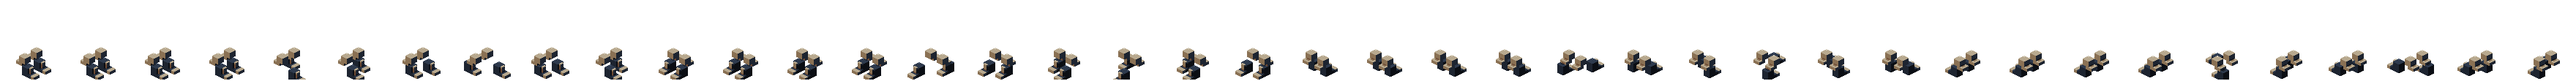
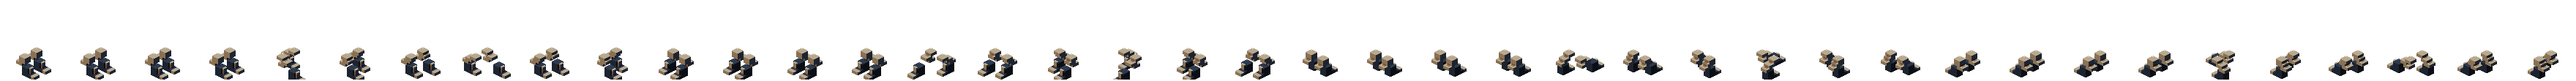
Prospector para de patinar, esquiva ganha foguetes e o cuspe vira gosma
TRES defeitos de leitura apontados em jogo:

1. A perna do Prospector so transladava canela e pe — coxa e jarrete
   ficavam cravados no quadril e a perna DESLIZAVA por baixo do corpo em
   vez de girar: leitura de patinacao. Uma caixa nao cisalha, entao a
   rotacao e aproximada em degraus: quadril fixo, metade de cima da coxa
   parada, metade de baixo e jarrete a meio caminho (s*0.5) do pe. A
   corrente pe -> canela -> jarrete -> coxa agora desenha a diagonal da
   passada inteira. Atlas do sheet e das camadas regenerados (v5/v7).

2. A esquiva nao tinha corpo: o bot deslizava ereto. Agora ele se
   PROSTRA no rumo do deslocamento — rotacao em torno dos pes na direcao
   de tela da esquiva, leve agachada e avanco de 2px — enquanto os dois
   bocais do hardpoint traseiro cospem brasas (emitDashJets: particulas
   ember em fluxo continuo, bucket de 45ms, jorrando contra o rumo). A
   sombra fica fora da inclinacao: pertence ao chao. Vale para o
   parceiro em co-op tambem.

3. O cuspe do Spitter usava o corpo facetado do estilhaco do jogador —
   leitura de municao. Secrecao nao tem faceta: agora e uma GOTA que
   balanca em voo (fase pela distancia percorrida, nao pelo relogio),
   com globulos grudados girando em volta, pingo desgarrado caindo rumo
   a sombra e rastro de respingos redondos. Curva = fluido, a mesma
   regra do disco e da bola de ricochete.

Validador e suites verdes (131 conteudo, 480 cliente), tsc limpo.
[…]

diff --git a/packages/voxelyn-survival/src/client/projectiles.ts b/packages/voxelyn-survival/src/client/projectiles.ts
@@ -260,6 +260,70 @@ const drawPiercingDart = (
   ctx.fill();
 };
 
+/**
+ * CUSPE: uma gota de gosma, nao um projetil de bala.
+ *
+ * O cuspe compartilhava o corpo facetado do estilhaco do jogador — dois voxels
+ * apontados, leitura de municao. Secrecao nao tem faceta: e uma GOTA que
+ * balanca em voo, com globulos grudados girando em volta e pingos se
+ * desgarrando por baixo. Tudo redondo de proposito: no mundo facetado, a curva
+ * e o que separa fluido de materia — a mesma regra do disco e da bola de
+ * ricochete.
+ *
+ * A fase vem da DISTANCIA percorrida, nao do relogio: a gota balanca porque
+ * voa, e para de balancar quando o mundo pausa.
+ */
+const drawSpitGlob = (
+  ctx: CanvasRenderingContext2D,
+  sx: number,
+  sy: number,
+  size: number,
+  phase: number,
+  ramp: FaceRamp
+): void => {
+  const wob = Math.sin(phase * 9);
+  const rx = size * (0.95 + 0.14 * wob);
+  const ry = size * (0.78 - 0.1 * wob);
+
+  // Globulos grudados, girando devagar com o voo — a gosma nao e uma esfera
+  // limpa, e uma massa que se reorganiza no ar.
+  ctx.fillStyle = ramp[1];
+  for (const offset of [0, Math.PI * 0.9]) {
+    const angle = phase * 5 + offset;
+    const gx = sx + Math.cos(angle) * rx * 0.75;
+    const gy = sy + Math.sin(angle) * ry * 0.8;
+    const gr = size * (0.28 + 0.08 * Math.sin(phase * 7 + offset));
+    ctx.beginPath();
+    ctx.ellipse(gx, gy, gr, gr * 0.8, 0, 0, Math.PI * 2);
+    ctx.fill();
+  }
+
+  // Corpo principal: gota achatada com a MESMA key light das faces voxel —
+  // sombra embaixo, meio-tom, brilho no alto-esquerda.
+  ctx.fillStyle = ramp[2];
+  ctx.beginPath();
+  ctx.ellipse(sx, sy, rx, ry, 0, 0, Math.PI * 2);
+  ctx.fill();
+  ctx.fillStyle = ramp[1];
+  ctx.beginPath();
+  ctx.ellipse(sx - rx * 0.12, sy - ry * 0.16, rx * 0.78, ry * 0.74, 0, 0, Math.PI * 2);
+  ctx.fill();
+  ctx.fillStyle = ramp[0];
+  ctx.beginPath();
+  ctx.ellipse(sx - rx * 0.28, sy - ry * 0.3, rx * 0.38, ry * 0.34, 0, 0, Math.PI * 2);
+  ctx.fill();
+
+  // Pingo desgarrado caindo rumo a sombra: nasce sob a gota, desce e recomeca.
+  // E ele que diz "isto escorre" — e escorrer e o que a poca no impacto promete.
+  const drop = (phase * 1.6) % 1;
+  ctx.globalAlpha = 0.85 * (1 - drop);
+  ctx.fillStyle = ramp[1];
+  ctx.beginPath();
+  ctx.ellipse(sx + rx * 0.2 * wob, sy + ry + drop * size * 1.6, size * 0.16, size * 0.22, 0, 0, Math.PI * 2);
+  ctx.fill();
+  ctx.globalAlpha = 1;
+};
+
 export class ProjectileView {
   private readonly tracks = new Map<number, Track>();
 
@@ -381,6 +445,27 @@ export class ProjectileView {
     // formas: e ele que conta de onde o tiro veio, e no ricochete e a unica
     // coisa que ainda conta isso depois do rebote.
     const heading = track && (track.dx !== 0 || track.dy !== 0) ? track : null;
+
+    if (projectile.kind === 'spit') {
+      // Rastro de RESPINGOS redondos, nao de voxels facetados: gotinhas que a
+      // massa perdeu no caminho, encolhendo e sumindo.
+      if (heading) {
+        for (let i = 3; i >= 1; i--) {
+          const [tx, ty] = project(
+            projectile.x - heading.dx * i * 0.26,
+            projectile.y - heading.dy * i * 0.26
+          );
+          ctx.globalAlpha = 0.45 - i * 0.11;
+          ctx.fillStyle = HOSTILE_RAMP[1];
+          ctx.beginPath();
+          ctx.ellipse(tx, ty - lift, size * (0.5 - i * 0.1), size * (0.4 - i * 0.08), 0, 0, Math.PI * 2);
+          ctx.fill();
+        }
+        ctx.globalAlpha = 1;
+      }
+      drawSpitGlob(ctx, sx, sy - lift, size, track?.travelled ?? 0, ramp);
+      return;
+    }
     if (heading) {
       for (let i = TRAIL_LENGTH; i >= 1; i--) {
         const back = i * 0.3;

diff --git a/packages/voxelyn-survival/src/client/particles.ts b/packages/voxelyn-survival/src/client/particles.ts
@@ -194,6 +194,7 @@ export class VoxelParticles {
    * limita o mapa ao número de jogadores.
    */
   private readonly lastOverheatBucket = new Map<number, number>();
+  private readonly lastDashJetBucket = new Map<number, number>();
   /** Teto vindo do preset de qualidade; mobile no minimo nao aguenta o de cima. */
   budget = 240;
 
@@ -514,6 +515,50 @@ export class VoxelParticles {
         life: 620,
         maxLife: 620,
         kind: 'ash',
+      });
+    }
+  }
+
+  /**
+   * Foguetes da esquiva: brasas jorrando do hardpoint traseiro enquanto o
+   * Prospector e propulsionado.
+   *
+   * O jato nasce ATRAS do bot (oposto ao rumo da esquiva), na altura do modulo
+   * dorsal, e a velocidade das brasas continua empurrando para tras — e o
+   * rastro delas que anima os foguetes, sem nenhum sprite novo. Bucket CURTO
+   * (45ms): a esquiva dura poucos ticks e o jato tem de ler como fluxo
+   * continuo, nao como tres brasas soltas.
+   */
+  emitDashJets(
+    slot: number,
+    x: number,
+    y: number,
+    dirX: number,
+    dirY: number,
+    nowMs: number,
+    scale: number
+  ): void {
+    const bucket = (nowMs / 45) | 0;
+    if (this.lastDashJetBucket.get(slot) === bucket) return;
+    this.lastDashJetBucket.set(slot, bucket);
+
+    const rnd = seeded(eventSeed(x, y, Math.imul(bucket, 374761393) ^ (slot + 7)));
+    const count = Math.max(1, Math.round(3 * scale));
+    for (let i = 0; i < count; i++) {
+      // Dois bocais, um de cada lado do modulo: o offset perpendicular alterna.
+      const side = i % 2 === 0 ? 0.14 : -0.14;
+      const px = -dirY * side;
+      const py = dirX * side;
+      this.push({
+        x: x - dirX * 0.35 + px + (rnd() - 0.5) * 0.08,
+        y: y - dirY * 0.35 + py + (rnd() - 0.5) * 0.08,
+        z: 0.65 + rnd() * 0.15,
+        vx: -dirX * (2.2 + rnd() * 0.8),
+        vy: -dirY * (2.2 + rnd() * 0.8),
+        vz: 0.15 + rnd() * 0.25,
+        life: 240 + rnd() * 120,
+        maxLife: 360,
+        kind: 'ember',
       });
     }
   }

diff --git a/packages/voxelyn-survival/src/client/render.ts b/packages/voxelyn-survival/src/client/render.ts
@@ -1381,10 +1381,33 @@ export class SurvivalRenderer {
           const allyLight = isLocal ? 1 : brightness(pl.x, pl.y);
           const bodyAlpha = isLocal ? 1 : allyBodyAlpha(allyLight);
           const flick = isLocal && ex.iframesUntil > state.tick && state.tick % 2 === 0;
+          // ESQUIVA COM PROPULSAO: durante o dash o corpo se PROSTRA no rumo do
+          // deslocamento — inclinado e levemente agachado, como quem esta sendo
+          // empurrado pelos foguetes do hardpoint — e os bocais traseiros cospem
+          // brasas. A sombra fica fora da inclinacao: ela pertence ao chao.
+          const dashing = state.tick < ex.dodgeUntil;
+          if (dashing) {
+            this.particles.emitDashJets(
+              slot, pl.x, pl.y, ex.dodgeDir.x, ex.dodgeDir.y, nowMs,
+              this.quality.maxFx / PRESETS.high.maxFx
+            );
+          }
           if (bodyAlpha > 0) {
             ctx.save();
             ctx.globalAlpha = bodyAlpha;
             drawShadow(psx, psy, size);
+            if (dashing) {
+              // Rumo da esquiva em coordenadas de TELA (projecao 2:1),
+              // renormalizado — e ele que diz para que lado o corpo tomba.
+              const ddx = ex.dodgeDir.x - ex.dodgeDir.y;
+              const ddy = (ex.dodgeDir.x + ex.dodgeDir.y) * 0.5;
+              const dlen = Math.hypot(ddx, ddy) || 1;
+              // Gira em torno dos PES: o apoio nao sai do lugar, o tronco tomba.
+              ctx.translate(psx + (ddx / dlen) * 2 * z, psy);
+              ctx.rotate((ddx / dlen) * 0.22);
+              ctx.scale(1, 0.92);
+              ctx.translate(-psx, -psy);
+            }
             if (!flick) {
               const drew = this.sprites.drawEntity(
                 ctx,
